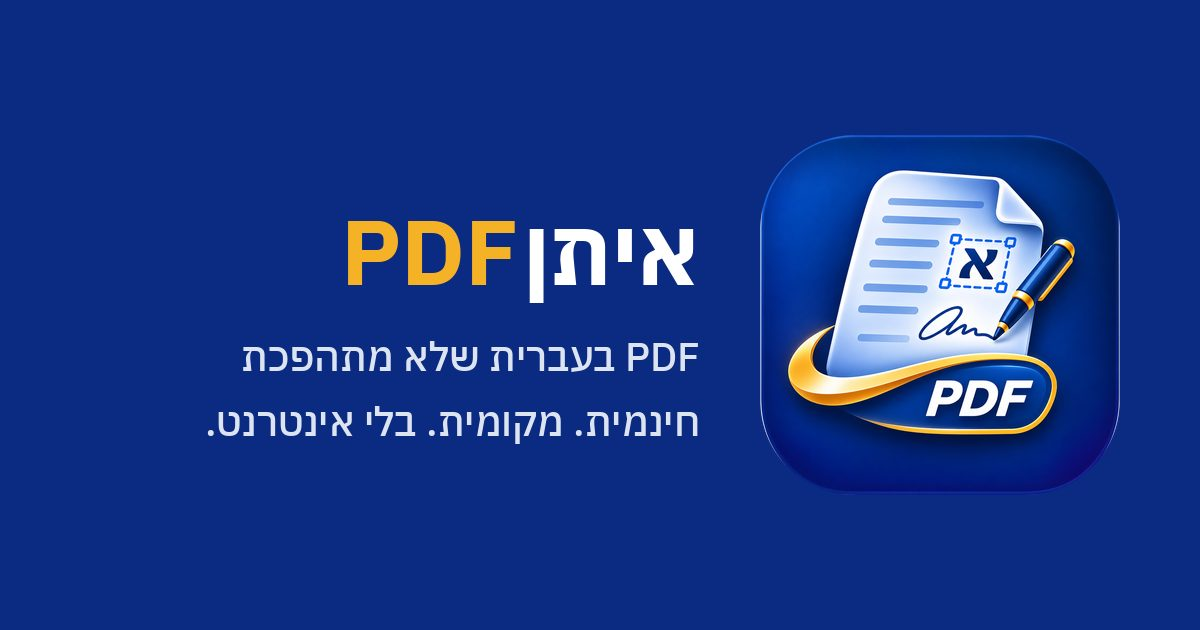
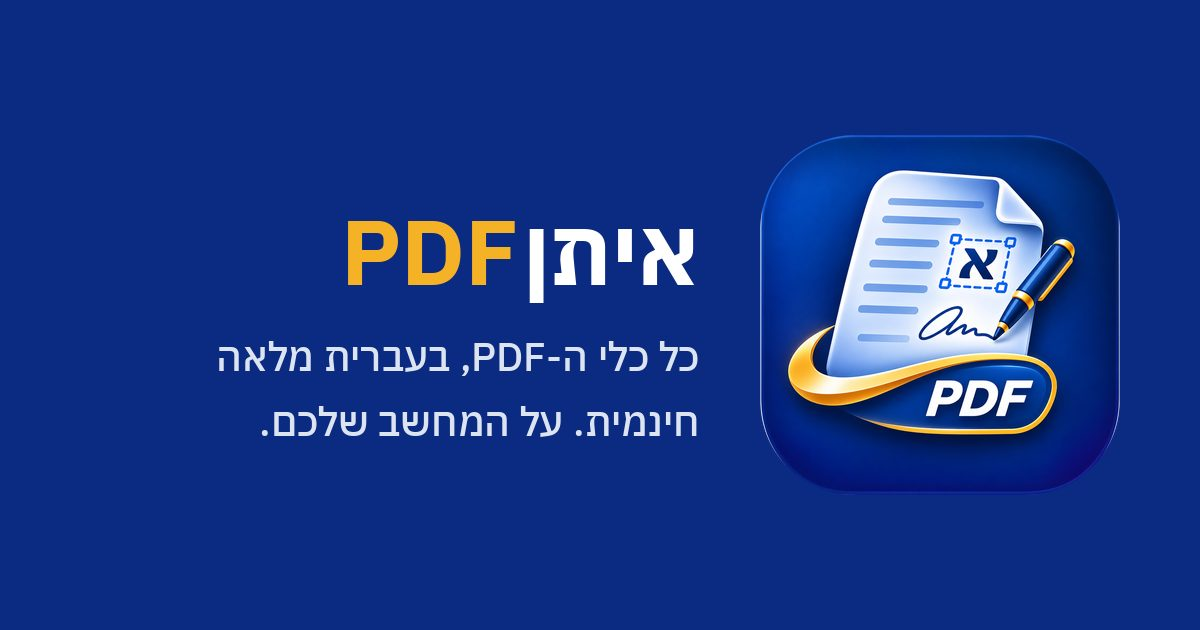
דף הנחיתה: טענות מדויקות, דגש על עברית מלאה, סעיף 'בפיתוח' לעריכת טקסט קיים
- הוסרה ההשוואה למתחרים ודוגמת 'תוכנה רגילה'
- תמונות ממוזערות בסייר כבר לא מסומנות ניסיוניות (נבדק על Windows)
- הוסרו טענות לא מאומתות (ARM, זמן התקנה); חלונות האזהרה מסומנים כהמחשה

Claude-Session: https://claude.ai/code/session_016vGyVAX8bEpu5djDuyALyf

Changed region(s): [[0.185, 0.5429, 0.5858, 0.6032], [0.1542, 0.6333, 0.4625, 0.6937], [0.5242, 0.6333, 0.5858, 0.6937]]

diff --git a/site/index.html b/site/index.html
@@ -3,10 +3,10 @@
 <head>
 <meta charset="utf-8">
 <meta name="viewport" content="width=device-width, initial-scale=1">
-<title>איתןPDF — תוכנת PDF חינמית בעברית</title>
+<title>איתןPDF — כל כלי ה-PDF, בעברית מלאה</title>
 <meta name="description" content="איתןPDF: תוכנה חינמית ל-Windows לעבודה עם PDF בעברית. צפייה, חתימה, מילוי טפסים, מיזוג, פיצול והשחרה. עובדת על המחשב, בלי אינטרנט ובלי להעלות קבצים.">
-<meta property="og:title" content="איתןPDF — PDF בעברית שלא מתהפכת">
-<meta property="og:description" content="תוכנה חינמית ל-Windows: חתימה, טפסים, מיזוג, פיצול והשחרה. הכל על המחשב שלכם.">
+<meta property="og:title" content="איתןPDF — כל כלי ה-PDF, בעברית מלאה">
+<meta property="og:description" content="תוכנה חינמית ל-Windows בעברית מלאה: חתימה, טפסים, מיזוג, פיצול והשחרה. על המחשב שלכם.">
 <meta property="og:image" content="https://pdf.m-eitan.co.il/og.jpg">
 <meta property="og:type" content="website">
 <meta name="twitter:card" content="summary_large_image">
@@ -94,14 +94,23 @@
   .sec-head { max-width: 720px; margin: 0 auto 44px; text-align: center; }
   .sec-head h2 { margin: 0 0 12px; font-size: clamp(28px, 3.6vw, 40px); line-height: 1.2; }
   .sec-head p { margin: 0; color: var(--ink-2); }
-  .flip { display: grid; grid-template-columns: 1fr 1fr; gap: 22px; max-width: 900px; margin: 0 auto; }
+  .he-grid { display: grid; grid-template-columns: 1fr 1fr; gap: 48px; align-items: center; max-width: 1000px; }
+  .he-text h2 { margin: 0 0 14px; font-size: clamp(28px, 3.6vw, 40px); line-height: 1.2; }
+  .he-text p { margin: 0 0 18px; color: var(--ink-2); }
+  .he-points { margin: 0; padding: 0; list-style: none; display: grid; gap: 10px; }
+  .he-points li { position: relative; padding-inline-start: 28px; font-weight: 500; }
+  .he-points li::before { content: '✓'; position: absolute; inset-inline-start: 0; top: 0; color: var(--royal); font-weight: 700; }
+  .he-sheet { margin: 0; }
+  .he-sheet .tag { background: var(--navy); }
+  .soon { background: var(--paper); border-top: 1px solid #E3E9F4; }
+  .soon-card { max-width: 900px; margin: 0 auto; display: grid; grid-template-columns: auto 1fr; gap: 24px; align-items: start; padding: 30px 32px; border-radius: 16px; border: 1.5px dashed var(--royal); background: #F6F8FC; }
+  .soon-badge { display: inline-block; background: var(--gold); color: var(--navy-deep); font-weight: 700; font-size: 14px; padding: 4px 14px; border-radius: 20px; white-space: nowrap; }
+  .soon-card h2 { margin: 0 0 8px; font-size: clamp(24px, 3vw, 32px); line-height: 1.25; }
+  .soon-card p { margin: 0; color: var(--ink-2); }
   .sheet { background: var(--paper); border-radius: 4px; box-shadow: var(--shadow); padding: 28px 30px 30px; position: relative; }
   .sheet .tag { position: absolute; top: -13px; inset-inline-start: 24px; font-size: 13px; font-weight: 700; padding: 3px 12px; border-radius: 20px; color: #fff; }
-  .sheet.bad .tag { background: var(--bad); }
-  .sheet.good .tag { background: var(--good); }
   .sheet .line { font-family: 'Alef', 'IBM Plex Sans Hebrew', sans-serif; font-size: 19px; padding: 9px 0; border-bottom: 1px solid #EEF1F7; }
   .sheet .line:last-child { border-bottom: 0; }
-  .sheet.bad .line { color: #4a4f5c; }
   .sheet .lbl { display: block; font-size: 12px; color: var(--ink-3); font-family: 'IBM Plex Sans Hebrew', sans-serif; direction: rtl; unicode-bidi: normal; text-align: right; }
 
   /* ---------- יכולות ---------- */
@@ -171,7 +180,8 @@
   @media (max-width: 900px) {
     .grid { grid-template-columns: 1fr 1fr; }
     .feat.wide { grid-column: span 2; grid-template-columns: 1fr; }
-    .flip, .mock-row { grid-template-columns: 1fr; }
+    .he-grid, .mock-row { grid-template-columns: 1fr; gap: 28px; }
+    .soon-card { grid-template-columns: 1fr; }
     .top nav { display: none; }
   }
   @media (max-width: 600px) {
@@ -200,8 +210,8 @@
 <main>
   <section class="hero" aria-labelledby="h1">
     <div class="wrap hero-grid">
-      <h1 id="h1">PDF בעברית שלא מתהפכת</h1>
-      <p class="lead">חתימה, מילוי טפסים, מיזוג, פיצול והשחרה. תוכנה חינמית ל-Windows שעובדת על המחשב שלכם, בלי אינטרנט ובלי להעלות קבצים לשום מקום.</p>
+      <h1 id="h1">כל כלי ה-PDF, בעברית מלאה</h1>
+      <p class="lead">צפייה, חתימה, מילוי טפסים, מיזוג, פיצול והשחרה, בממשק עברי מלא. תוכנה חינמית ל-Windows שעובדת על המחשב שלכם, בלי להעלות קבצים לשום מקום.</p>
       <div class="cta-row">
         <a class="btn btn-gold" href="/download" data-dl>
           <svg viewBox="0 0 24 24" aria-hidden="true"><path d="M12 4v11M7 10l5 5 5-5M5 20h14"/></svg>
@@ -211,7 +221,7 @@
       </div>
       <ul class="meta" aria-label="פרטי הגרסה">
         <li><svg viewBox="0 0 24 24" aria-hidden="true"><path d="m5 12 4.5 4.5L19 7"/></svg><span data-version>הגרסה האחרונה</span></li>
-        <li><svg viewBox="0 0 24 24" aria-hidden="true"><path d="m5 12 4.5 4.5L19 7"/></svg>Windows 10 ו-11</li>
+        <li><svg viewBox="0 0 24 24" aria-hidden="true"><path d="m5 12 4.5 4.5L19 7"/></svg>Windows 10 ו-11, 64 ביט</li>
         <li><svg viewBox="0 0 24 24" aria-hidden="true"><path d="m5 12 4.5 4.5L19 7"/></svg>חינם, בלי פרסומות ובלי הרשמה</li>
         <li><svg viewBox="0 0 24 24" aria-hidden="true"><path d="m5 12 4.5 4.5L19 7"/></svg>קוד פתוח</li>
       </ul>
@@ -219,33 +229,32 @@
     </div>
   </section>
 
-  <section aria-labelledby="h-flip">
-    <div class="wrap">
-      <div class="sec-head">
-        <h2 id="h-flip">ההבדל שרואים בשנייה</h2>
-        <p>רוב הכלים שכותבים לתוך PDF הופכים את העברית, או מתקנים אותה ומשאירים את המספרים הפוכים. איתןPDF מסדרת כל שורה לפני שהיא נכתבת לקובץ, כולל מספרים, סוגריים, טלפונים וניקוד.</p>
+  <section aria-labelledby="h-he">
+    <div class="wrap he-grid">
+      <div class="he-text">
+        <h2 id="h-he">עברית מלאה, מהממשק ועד הקובץ</h2>
+        <p>כל התוכנה בנויה מימין לשמאל: התפריטים, הכלים וההסברים. וכל טקסט שאתם מוסיפים למסמך, בחתימה, בטופס או בהערה, נשמר בקובץ בסדר הנכון.</p>
+        <ul class="he-points">
+          <li>מספרים, סכומים ותאריכים בתוך משפט עברי</li>
+          <li>טלפונים, מספרי זהות וכתובות מייל</li>
+          <li>סוגריים ומירכאות בכיוון הנכון</li>
+          <li>אנגלית בתוך עברית, וניקוד</li>
+        </ul>
       </div>
-      <div class="flip">
-        <div class="sheet bad" role="img" aria-label="דוגמה לטקסט עברי שהתהפך בתוכנה רגילה">
-          <span class="tag">תוכנה רגילה</span>
-          <div class="line"><span class="lbl">סכום</span>ח"ש 05.052,1</div>
-          <div class="line"><span class="lbl">טלפון</span>7654321-050 :ןופלט</div>
-          <div class="line"><span class="lbl">הערה</span>תלוש מקורי )נגל(</div>
-        </div>
-        <div class="sheet good">
-          <span class="tag">איתןPDF</span>
-          <div class="line"><span class="lbl">סכום</span>1,250.50 ש"ח</div>
-          <div class="line"><span class="lbl">טלפון</span>טלפון: 050-1234567</div>
-          <div class="line"><span class="lbl">הערה</span>תלוש מקורי (נגל)</div>
-        </div>
-      </div>
+      <figure class="sheet he-sheet">
+        <span class="tag">כך זה נשמר בקובץ</span>
+        <div class="line"><span class="lbl">סכום</span>1,250.50 ש"ח (כולל מע"מ)</div>
+        <div class="line"><span class="lbl">פרטים</span>ת.ז. 012345678, טלפון 050-1234567</div>
+        <div class="line"><span class="lbl">הערה</span>פגישה עם Kobi Eitan ב-10:30</div>
+        <div class="line"><span class="lbl">ניקוד</span>שָׁלוֹם וּבְרָכָה</div>
+      </figure>
     </div>
   </section>
 
   <section class="features" id="features" aria-labelledby="h-feat">
     <div class="wrap">
       <div class="sec-head">
-        <h2 id="h-feat">כל מה שעושים עם PDF במשרד</h2>
+        <h2 id="h-feat">מה אפשר לעשות</h2>
         <p>כל קובץ נפתח בלשונית משלו. שומרים ישירות לקובץ, או בשם חדש.</p>
       </div>
       <div class="grid">
@@ -257,7 +266,7 @@
         <article class="feat">
           <div class="ic"><svg viewBox="0 0 24 24" aria-hidden="true"><rect x="4" y="3" width="16" height="18" rx="1.5"/><path d="M8 8h8M8 12h8M8 16h4"/></svg></div>
           <h3>מילוי טפסים</h3>
-          <p>ממלאים ישירות על הדף, בעברית תקינה. אפשר לנעול את הטופס בשמירה כך שלא יהיה ניתן לשנות.</p>
+          <p>בטפסים עם שדות למילוי, ממלאים ישירות על הדף. אפשר לנעול את הטופס בשמירה כך שלא יהיה ניתן לשנות. בטופס סרוק כותבים עם כלי הטקסט.</p>
         </article>
         <article class="feat">
           <div class="ic"><svg viewBox="0 0 24 24" aria-hidden="true"><path d="M5 6V4h14v2M12 4v16M9 20h6"/></svg></div>
@@ -277,16 +286,28 @@
         <article class="feat">
           <div class="ic"><svg viewBox="0 0 24 24" aria-hidden="true"><rect x="3" y="8" width="18" height="8" rx="1" fill="currentColor" stroke="none"/><path d="M3 5h8M3 19h12"/></svg></div>
           <h3>השחרה אמיתית</h3>
-          <p>מוחקת לצמיתות את מה שמתחת, לא רק מכסה בריבוע שחור. מתאים לתעודות זהות, תלושים ומסמכים רגישים.</p>
+          <p>מוחקת לצמיתות את מה שמתחת, לא רק מכסה בריבוע שחור. העמוד המושחר נשמר כתמונה, ולכן הטקסט בו כבר לא ניתן לבחירה. שאר העמודים לא משתנים.</p>
         </article>
         <article class="feat wide">
           <div>
             <div class="ic"><svg viewBox="0 0 24 24" aria-hidden="true"><rect x="3" y="4" width="18" height="13" rx="1.5"/><path d="M8 21h8M12 17v4"/></svg></div>
             <h3>משתלבת ב-Windows</h3>
-            <p>קליק ימני על קבצי PDF בסייר: פתיחה, מיזוג או פיצול בלי לפתוח את התוכנה קודם. ואם רוצים, תמונה ממוזערת של העמוד הראשון במקום אייקון. כל אלה מופעלים בלחיצה אחת מתוך התוכנה.</p>
+            <p>קליק ימני על קבצי PDF בסייר: פתיחה, מיזוג או פיצול בלי לפתוח את התוכנה קודם. וגם תמונה ממוזערת של העמוד הראשון בסייר, במקום אייקון. כל אלה מופעלים בלחיצה אחת מתוך התוכנה, ואפשר לכבות אותם באותה דרך.</p>
           </div>
           <img src="shot-pages.webp" alt="מסך העמודים: שלושה קבצים ממוזגים, כל עמוד מסומן בלשונית בצבע הקובץ שלו" width="1440" height="872" loading="lazy">
         </article>
+      </div>
+    </div>
+  </section>
+
+  <section class="soon" aria-labelledby="h-soon">
+    <div class="wrap">
+      <div class="soon-card">
+        <span class="soon-badge">בפיתוח</span>
+        <div>
+          <h2 id="h-soon">הצעד הבא: עריכת הטקסט שכבר במסמך</h2>
+          <p>היום מוסיפים טקסט, חתימות ושדות על גבי המסמך. בגרסה הבאה אפשר יהיה לתקן גם את הטקסט המקורי עצמו, מילה או שורה, בלי לשבור את העברית סביבו. ההתקנה של גרסה חדשה מעדכנת את הקיימת, כך שזה יגיע אליכם בהורדה אחת.</p>
+        </div>
       </div>
     </div>
   </section>
@@ -295,14 +316,14 @@
     <div class="wrap">
       <div class="sec-head">
         <h2 id="h-inst">התקנה בשלושה צעדים</h2>
-        <p>לא צריך הרשאות מנהל. Windows ידפדף אתכם דרך אזהרה אחת או שתיים, וכאן מוסבר בדיוק על מה לוחצים.</p>
+        <p>לא צריך הרשאות מנהל. בהתקנה הראשונה Windows והדפדפן עשויים להציג אזהרה, וכאן מוסבר על מה לוחצים. החלונות שבהמשך הם המחשה, והניסוח אצלכם עשוי להיות מעט שונה.</p>
       </div>
       <ol class="steps">
         <li class="step">
           <div>
             <h3>מורידים את קובץ ההתקנה</h3>
-            <p><a href="/download" data-dl>הורדת איתןPDF</a> (<span data-size>כ-115MB</span>). הקובץ נקרא <bdi dir="ltr">EitanPDF-Setup-x64.exe</bdi>.</p>
-            <p>הדפדפן עשוי להזהיר שהקובץ "לא מוכר" או "לא מורד בדרך כלל", כי זו תוכנה חדשה שעדיין לא הורידו הרבה אנשים. כך ממשיכים:</p>
+            <p><a href="/download" data-dl>הורדת איתןPDF</a> (<span data-size>כ-110MB</span>). הקובץ נקרא <bdi dir="ltr">EitanPDF-Setup-x64.exe</bdi>.</p>
+            <p>הדפדפן עשוי להזהיר שהקובץ לא מורד בדרך כלל, כי זו תוכנה חדשה. אם זה קורה, כך ממשיכים:</p>
             <div class="mock-row">
               <figure class="mock">
                 <div class="dl"><div class="row"><span class="warn">!</span><div>הקובץ EitanPDF-Setup-x64.exe לא מורד בדרך כלל. ודא שאתה סומך על הקובץ לפני שתפתח אותו.</div></div>
@@ -320,7 +341,7 @@
         <li class="step">
           <div>
             <h3>פותחים את הקובץ, ועוברים את המסך הכחול</h3>
-            <p>בפעם הראשונה Windows יציג חלון כחול: "Windows הגן על המחשב שלך". זה קורה לכל תוכנה שלא נרכשה לה חתימה דיגיטלית בתשלום, ולא אומר שמשהו לא תקין.</p>
+            <p>Windows עשוי להציג חלון כחול: "Windows הגן על המחשב שלך". זה קורה לתוכנות חדשות שאין להן חתימה דיגיטלית מסחרית, ולא אומר שנמצאה בעיה בקובץ.</p>
             <div class="mock-row">
               <figure class="mock">
                 <div class="ss"><b>Windows הגן על המחשב שלך</b>
@@ -341,7 +362,7 @@
         <li class="step">
           <div>
             <h3>לוחצים "הבא" ו"סיום"</h3>
-            <p>ההתקנה לוקחת כחצי דקה. בסוף התוכנה נפתחת, ויש לה קיצור דרך בתפריט התחל ועל שולחן העבודה.</p>
+            <p>בסוף ההתקנה התוכנה נפתחת, ונוצר לה קיצור דרך בתפריט התחל ועל שולחן העבודה.</p>
             <p>רוצים קליק ימני על PDF בסייר, או תמונות ממוזערות? בתוכנה לוחצים על <kbd>שילוב ב-Windows</kbd> בתחתית הסרגל הימני.</p>
           </div>
         </li>
@@ -355,11 +376,11 @@
       <div class="qa">
         <details>
           <summary>האם הקבצים שלי נשלחים לאנשהו?</summary>
-          <p>לא. כל העבודה נעשית על המחשב שלכם, והתוכנה בכלל לא מתחברת לאינטרנט. אפשר לנתק את הרשת ולהמשיך לעבוד כרגיל.</p>
+          <p>לא. כל העבודה נעשית על המחשב שלכם, והתוכנה לא שולחת קבצים לשום מקום. היא גם לא צריכה חיבור לאינטרנט כדי לעבוד.</p>
         </details>
         <details>
           <summary>למה Windows מזהיר ממנה?</summary>
-          <p>Windows מזהיר מכל תוכנה שאין לה חתימה דיגיטלית בתשלום ושעוד לא הורידו הרבה אנשים. איתןPDF בקוד פתוח, וכל אחד יכול לקרוא את הקוד שלה ב-GitHub ולבנות אותה בעצמו.</p>
+          <p>Windows מזהיר מתוכנות חדשות שאין להן חתימה דיגיטלית מסחרית ועוד לא צברו מוניטין אצל Microsoft. איתןPDF בקוד פתוח: אפשר לקרוא את הקוד ב-GitHub, וקובץ ההתקנה נבנה שם אוטומטית מהקוד הזה.</p>
         </details>
         <details>
           <summary>איך מעדכנים לגרסה חדשה?</summary>
@@ -379,7 +400,7 @@
         </details>
         <details>
           <summary>יש גרסה ל-Mac?</summary>
-          <p>כרגע רק ל-Windows 10 ו-11 (64 ביט). במחשבים עם מעבד ARM ב-Windows 11 היא רצה דרך האמולציה המובנית.</p>
+          <p>כרגע רק ל-Windows 10 ו-11, בגרסת 64 ביט.</p>
         </details>
       </div>
     </div>
@@ -388,7 +409,7 @@
   <section class="final" aria-labelledby="h-final">
     <div class="wrap">
       <h2 id="h-final">מוכנים לנסות?</h2>
-      <p>הורדה אחת, התקנה של חצי דקה, ואתם עובדים.</p>
+      <p>חינם, בעברית, ועל המחשב שלכם.</p>
       <a class="btn btn-gold" href="/download" data-dl>
         <svg viewBox="0 0 24 24" aria-hidden="true"><path d="M12 4v11M7 10l5 5 5-5M5 20h14"/></svg>
         הורדה חינמית ל-Windows

diff --git a/src/renderer/app.js b/src/renderer/app.js
@@ -2045,7 +2045,7 @@ async function renderWindows() {
       st.context, 'ב-Windows 11 הפעולות נמצאות תחת "הצגת אפשרויות נוספות".'),
     card('thumbs', 'תמונות ממוזערות בסייר הקבצים',
       'הסייר יציג את העמוד הראשון של כל קובץ PDF במקום אייקון, בתצוגת "סמלים גדולים".',
-      st.thumbs, 'ניסיוני. אם תוכנה אחרת כבר מציגה תמונות ממוזערות ל-PDF, ההגדרה הזו תחליף אותה. לפעמים צריך לנקות את מטמון התמונות של Windows (ניקוי דיסק) כדי לראות את השינוי.'),
+      st.thumbs, 'אם תוכנה אחרת כבר מציגה תמונות ממוזערות ל-PDF, ההגדרה הזו תחליף אותה. לפעמים צריך לנקות את מטמון התמונות של Windows (ניקוי דיסק) כדי לראות את השינוי.'),
     card('default', 'פתיחת PDF בתוכנה הזו',
       'מוסיף את איתןPDF לרשימת "פתח באמצעות". Windows לא מאפשר לתוכנות לקבוע את עצמן כברירת מחדל, לכן אחרי ההפעלה ייפתח חלון ההגדרות של Windows ושם בוחרים בה.',
       st.default, null),
